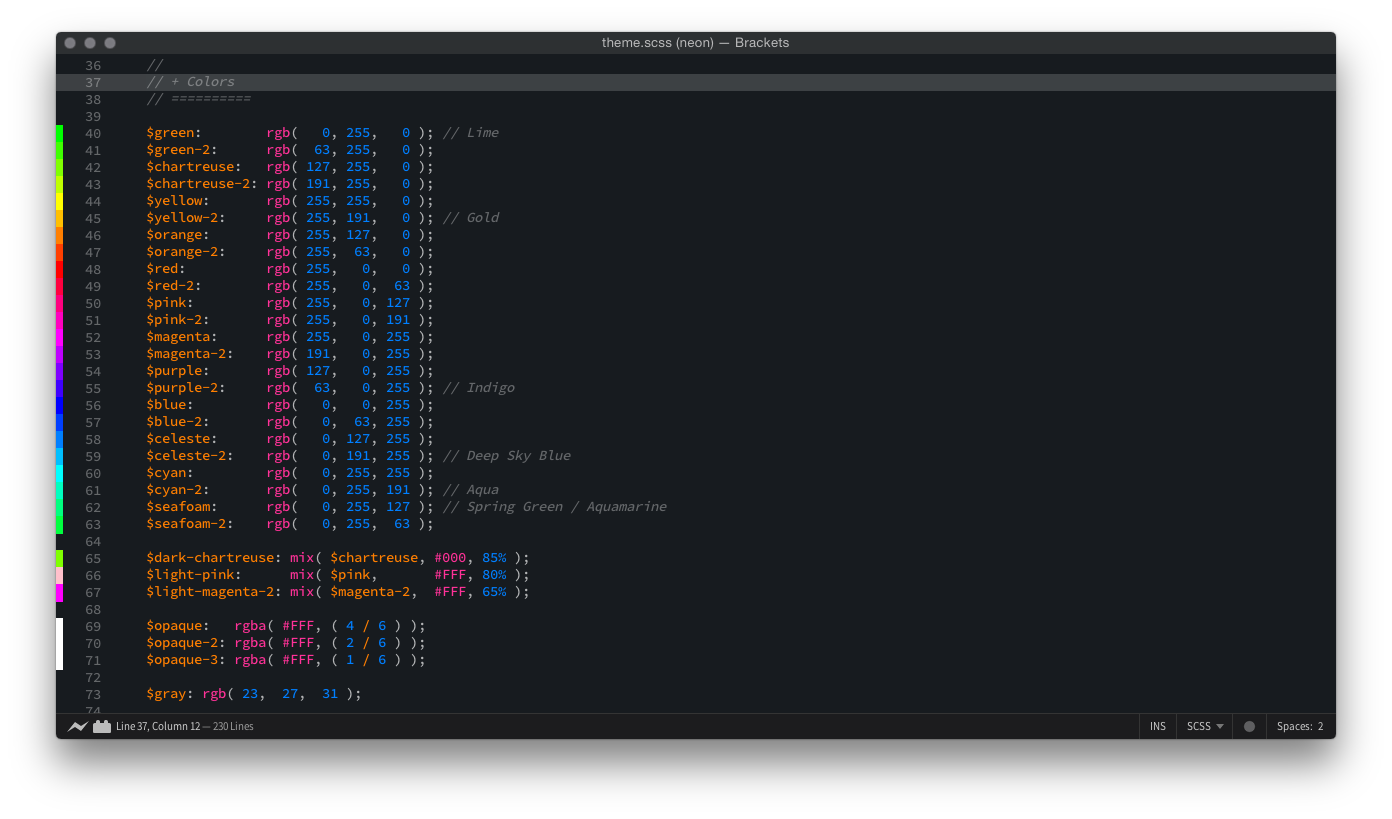
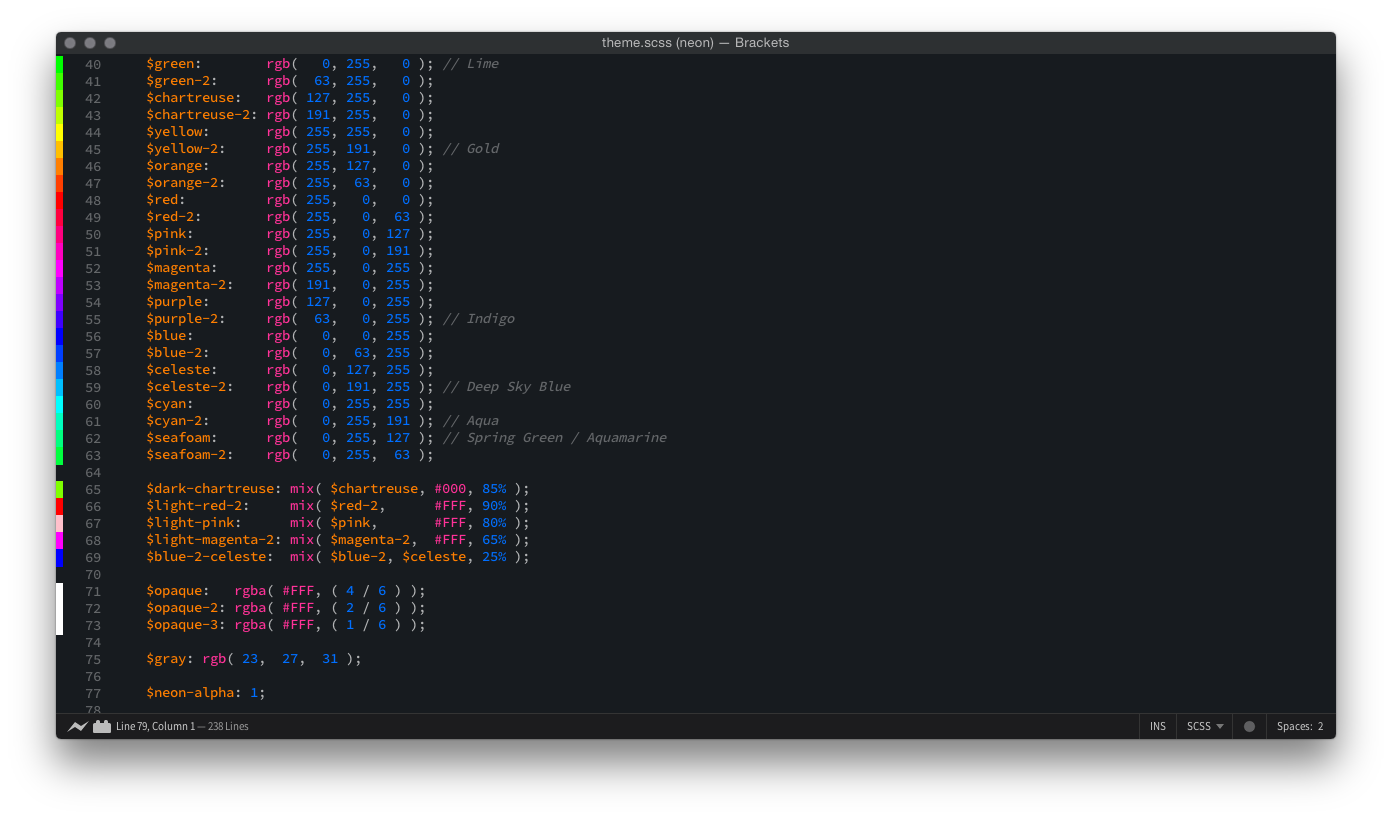
1.0.8

diff --git a/theme.scss b/theme.scss
@@ -63,8 +63,10 @@ $seafoam:      rgb(   0, 255, 127 ); // Spring Green / Aquamarine
 $seafoam-2:    rgb(   0, 255,  63 );
 
 $dark-chartreuse: mix( $chartreuse, #000, 85% );
+$light-red-2:     mix( $red-2,      #FFF, 90% );
 $light-pink:      mix( $pink,       #FFF, 80% );
 $light-magenta-2: mix( $magenta-2,  #FFF, 65% );
+$blue-2-celeste:  mix( $blue-2, $celeste, 25% );
 
 $opaque:   rgba( #FFF, ( 4 / 6 ) );
 $opaque-2: rgba( #FFF, ( 2 / 6 ) );
@@ -147,13 +149,14 @@ $neon-alpha: 1;
 .cm-header,
 .cm-hr,
 .cm-property,                                  // Properties
-.cm-string-2 {
+.cm-string-2,
+.cm-variable {                                 // Variables
   color: rgba( $celeste-2, $neon-alpha );
 }
 
 .cm-meta,                                      // Vender prefixes
 .cm-number {                                   // Numbers
-  color: rgba( $celeste, $neon-alpha );
+  color: rgba( $blue-2-celeste, $neon-alpha );
 }
 
 .cm-bracket,                                   // Carrets
@@ -162,11 +165,16 @@ $neon-alpha: 1;
   color: rgba( $dark-chartreuse, $neon-alpha );
 }
 
-.cm-operator,
-.cm-variable,                                  // Variables
-.cm-variable-2,
-.cm-variable-3 {
+.cm-operator {
+  color: $opaque;
+}
+
+.cm-variable-2 {
   color: rgba( $orange, $neon-alpha );
+}
+
+.cm-variable-3 {                               // Pseudo elements
+  color: rgba( $light-red-2, $neon-alpha );
 }
 
 .cm-builtin,
@@ -174,7 +182,7 @@ $neon-alpha: 1;
 .cm-minus,
 .cm-plus,
 .cm-quote {
-  color: rgba( $red, $neon-alpha );
+  color: rgba( $red-2, $neon-alpha );
 }
 
 .cm-link,

diff --git a/theme.css b/theme.css
@@ -52,30 +52,34 @@
 .cm-header,
 .cm-hr,
 .cm-property,
-.cm-string-2 {
+.cm-string-2,
+.cm-variable {
   color: deepskyblue;
 }
 .cm-meta,
 .cm-number {
-  color: #007fff;
+  color: #006fff;
 }
 .cm-bracket,
 .cm-tag,
 .cm-qualifier {
   color: #6bd800;
 }
-.cm-operator,
-.cm-variable,
-.cm-variable-2,
-.cm-variable-3 {
+.cm-operator {
+  color: rgba(255, 255, 255, 0.6666666667);
+}
+.cm-variable-2 {
   color: #ff7f00;
+}
+.cm-variable-3 {
+  color: #ff1952;
 }
 .cm-builtin,
 .cm-error,
 .cm-minus,
 .cm-plus,
 .cm-quote {
-  color: red;
+  color: #ff003f;
 }
 .cm-link,
 .cm-rangeinfo {

diff --git a/README.md b/README.md
@@ -30,6 +30,7 @@ Neon Brackets Theme
 
 
 Screenshots are from version 1.0.7.
+
 See CHANGELOG.md for differences.
 
 
@@ -47,5 +48,5 @@ See CHANGELOG.md for differences.
 
 
 ## Themed Extensions
-+ [CSS Color Preview by cmgddd](https://github.com/cmgddd/Brackets-css-color-preview)
 + [Code Folding by thehogfather](https://github.com/thehogfather/brackets-code-folding)
++ [CSS Color Preview by cmgddd](https://github.com/cmgddd/Brackets-css-color-preview)

diff --git a/CHANGELOG.md b/CHANGELOG.md
@@ -2,6 +2,12 @@ Changelog
 =========
 
 **January 19, 2015**
++ 1.0.8
+  + Changed pseudo elements to a light red
+  + Changed values to a slightly more blue, blue
+  + Changed operators to white
+  + Changed functions to celeste
+
 + 1.0.7
   + Changed px units to em units so they always scale according to font size
 
